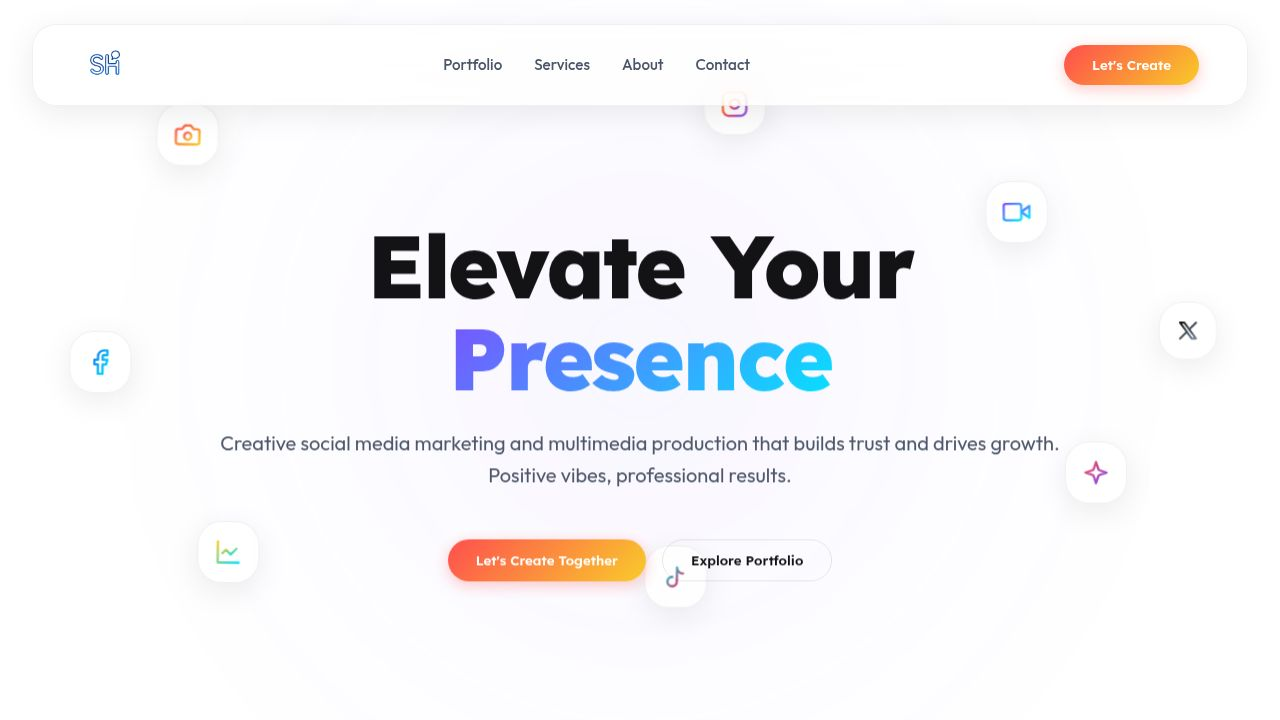
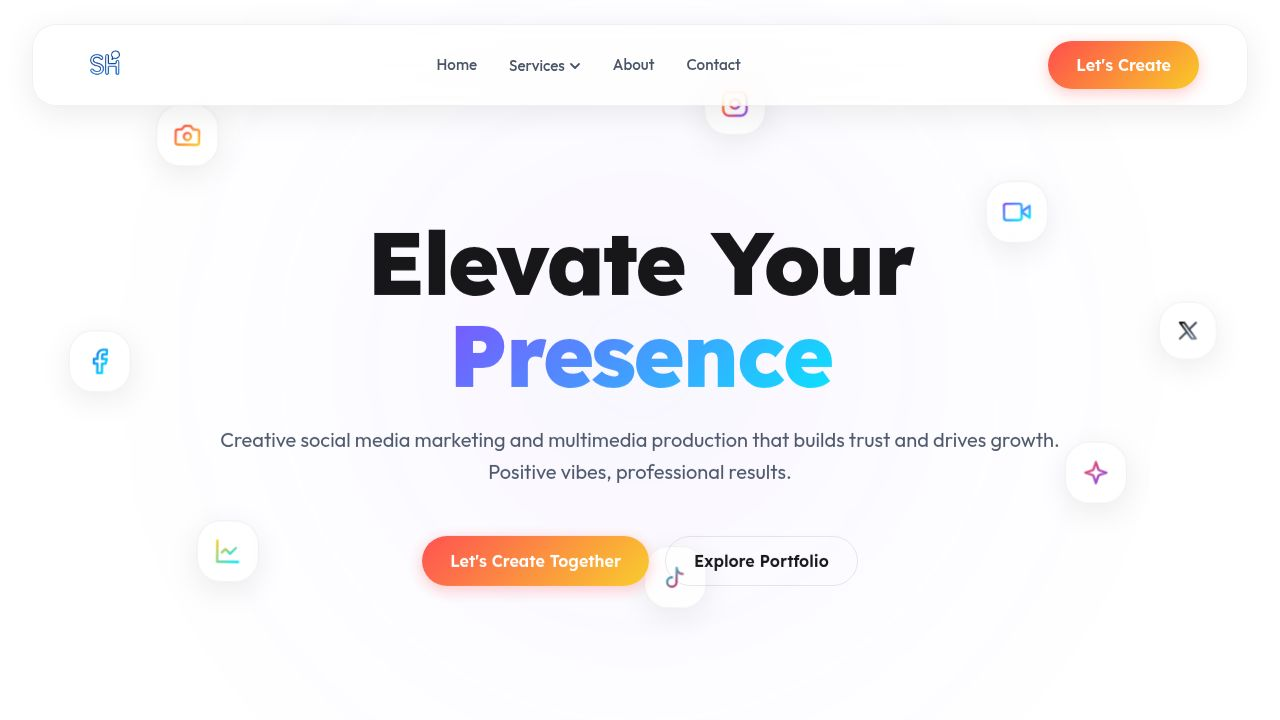
Update website imagery and restore functionality
Replaced the lifestyle branding image in the PortfolioGrid and SupportPage components with a new URL. Also refactored the PortfolioCardImage component to improve image handling and removed unused code from SupportPage.

Replit-Commit-Author: Agent
Replit-Commit-Session-Id: 4968806e-82f0-444c-84f2-3f7bd550a6ff
Replit-Commit-Checkpoint-Type: full_checkpoint
Replit-Commit-Event-Id: 494c8867-29f4-4ea4-adb8-62b390f4c8a4
Replit-Commit-Screenshot-Url: https://storage.googleapis.com/screenshot-production-us-central1/9d191c38-f26d-4065-80ef-b8d15d70e9f7/4968806e-82f0-444c-84f2-3f7bd550a6ff/XyOfk9o
Replit-Helium-Checkpoint-Created: true

diff --git a/artifacts/smedia-hub/src/components/Landing/PortfolioGrid.tsx b/artifacts/smedia-hub/src/components/Landing/PortfolioGrid.tsx
@@ -1,49 +1,6 @@
 import { useContent } from '@/lib/hooks/useContent';
 import styles from './PortfolioGrid.module.css';
 
-const FALLBACK_IMAGES: Record<string, string> = {
-  default: 'https://images.unsplash.com/photo-1460925895917-afdab827c52f?auto=format&fit=crop&q=80&w=800',
-};
-
-function PortfolioImage({ src, alt, index }: { src: string; alt: string; index: number }) {
-  const gradients = [
-    'linear-gradient(135deg, #ff4d4d 0%, #f9cb28 100%)',
-    'linear-gradient(135deg, #7c4dff 0%, #00e5ff 100%)',
-    'linear-gradient(135deg, #f9cb28 0%, #ff4d4d 100%)',
-    'linear-gradient(135deg, #00e5ff 0%, #7c4dff 100%)',
-  ];
-
-  if (!src) {
-    return (
-      <div
-        className={styles.imagePlaceholder}
-        style={{ background: gradients[index % gradients.length] }}
-        aria-label={alt}
-      >
-        <svg width="48" height="48" viewBox="0 0 24 24" fill="none" stroke="rgba(255,255,255,0.7)" strokeWidth="1.5">
-          <rect x="3" y="3" width="18" height="18" rx="2"/>
-          <circle cx="8.5" cy="8.5" r="1.5"/>
-          <path d="M21 15l-5-5L5 21"/>
-        </svg>
-      </div>
-    );
-  }
-
-  return (
-    <img
-      src={src}
-      alt={alt}
-      className={styles.image}
-      onError={e => {
-        const img = e.currentTarget;
-        img.style.display = 'none';
-        const placeholder = img.nextElementSibling as HTMLElement;
-        if (placeholder) placeholder.style.display = 'flex';
-      }}
-    />
-  );
-}
-
 const DEFAULT_PORTFOLIO = [
   {
     title: "Social Growth Strategy",
@@ -55,12 +12,49 @@ const DEFAULT_PORTFOLIO = [
     title: "Lifestyle Branding",
     category: "Photography",
     metric: "Premium Visuals",
-    image: "https://images.unsplash.com/photo-1515886657613-9f3515b0c78f?auto=format&fit=crop&q=80&w=800"
+    image: "https://images.unsplash.com/photo-1529139574466-a303027c1d8b?auto=format&fit=crop&q=80&w=1200"
   }
 ];
 
+const GRADIENTS = [
+  'linear-gradient(135deg, #ff4d4d 0%, #f9cb28 100%)',
+  'linear-gradient(135deg, #7c4dff 0%, #00e5ff 100%)',
+  'linear-gradient(135deg, #f9cb28 0%, #ff4d4d 100%)',
+  'linear-gradient(135deg, #00e5ff 0%, #7c4dff 100%)',
+];
+
+function PortfolioCardImage({ src, alt, index }: { src: string; alt: string; index: number }) {
+  return (
+    <>
+      {src ? (
+        <img
+          src={src}
+          alt={alt}
+          className={styles.image}
+          onError={e => {
+            const img = e.currentTarget;
+            img.style.display = 'none';
+            const sib = img.nextElementSibling as HTMLElement;
+            if (sib) sib.style.display = 'flex';
+          }}
+        />
+      ) : null}
+      <div
+        className={styles.imagePlaceholder}
+        style={{ display: src ? 'none' : 'flex', background: GRADIENTS[index % GRADIENTS.length] }}
+      >
+        <svg width="48" height="48" viewBox="0 0 24 24" fill="none" stroke="rgba(255,255,255,0.7)" strokeWidth="1.5">
+          <rect x="3" y="3" width="18" height="18" rx="2"/>
+          <circle cx="8.5" cy="8.5" r="1.5"/>
+          <path d="M21 15l-5-5L5 21"/>
+        </svg>
+      </div>
+    </>
+  );
+}
+
 export default function PortfolioGrid() {
-  const { content, loading } = useContent();
+  const { content } = useContent();
 
   const rawProjects = content?.portfolio;
   const projects = Array.isArray(rawProjects) && rawProjects.length > 0
@@ -70,13 +64,6 @@ export default function PortfolioGrid() {
         image: p.image || DEFAULT_PORTFOLIO[i]?.image || '',
       }))
     : DEFAULT_PORTFOLIO;
-
-  const gradients = [
-    'linear-gradient(135deg, #ff4d4d 0%, #f9cb28 100%)',
-    'linear-gradient(135deg, #7c4dff 0%, #00e5ff 100%)',
-    'linear-gradient(135deg, #f9cb28 0%, #ff4d4d 100%)',
-    'linear-gradient(135deg, #00e5ff 0%, #7c4dff 100%)',
-  ];
 
   return (
     <section id="portfolio" className="section">
@@ -90,42 +77,7 @@ export default function PortfolioGrid() {
           {projects.map((project: any, i: number) => (
             <div key={i} className={`glass-hover ${styles.card}`}>
               <div className={styles.imageWrapper}>
-                {project.image ? (
-                  <>
-                    <img
-                      src={project.image}
-                      alt={project.title}
-                      className={styles.image}
-                      onError={e => {
-                        const img = e.currentTarget;
-                        img.style.display = 'none';
-                        const sib = img.nextElementSibling as HTMLElement;
-                        if (sib) sib.style.display = 'flex';
-                      }}
-                    />
-                    <div
-                      className={styles.imagePlaceholder}
-                      style={{ display: 'none', background: gradients[i % gradients.length] }}
-                    >
-                      <svg width="48" height="48" viewBox="0 0 24 24" fill="none" stroke="rgba(255,255,255,0.7)" strokeWidth="1.5">
-                        <rect x="3" y="3" width="18" height="18" rx="2"/>
-                        <circle cx="8.5" cy="8.5" r="1.5"/>
-                        <path d="M21 15l-5-5L5 21"/>
-                      </svg>
-                    </div>
-                  </>
-                ) : (
-                  <div
-                    className={styles.imagePlaceholder}
-                    style={{ background: gradients[i % gradients.length] }}
-                  >
-                    <svg width="48" height="48" viewBox="0 0 24 24" fill="none" stroke="rgba(255,255,255,0.7)" strokeWidth="1.5">
-                      <rect x="3" y="3" width="18" height="18" rx="2"/>
-                      <circle cx="8.5" cy="8.5" r="1.5"/>
-                      <path d="M21 15l-5-5L5 21"/>
-                    </svg>
-                  </div>
-                )}
+                <PortfolioCardImage src={project.image} alt={project.title} index={i} />
                 <div className={styles.overlay}>
                   <span className={styles.metric}>{project.metric}</span>
                 </div>

diff --git a/artifacts/smedia-hub/src/pages/SupportPage.tsx b/artifacts/smedia-hub/src/pages/SupportPage.tsx
@@ -32,7 +32,7 @@ const DEFAULT_CONTENT = {
   ],
   portfolio: [
     { title: 'Social Growth Strategy', category: 'Marketing', metric: '+240% Engagement', image: 'https://images.unsplash.com/photo-1460925895917-afdab827c52f?auto=format&fit=crop&q=80&w=800' },
-    { title: 'Lifestyle Branding', category: 'Photography', metric: 'Premium Visuals', image: 'https://images.unsplash.com/photo-1515886657613-9f3515b0c78f?auto=format&fit=crop&q=80&w=800' },
+    { title: 'Lifestyle Branding', category: 'Photography', metric: 'Premium Visuals', image: 'https://images.unsplash.com/photo-1529139574466-a303027c1d8b?auto=format&fit=crop&q=80&w=1200' },
   ],
   contact: {
     email: '[email redacted]',
@@ -210,8 +210,6 @@ export default function SupportPage() {
         </header>
 
         <div className={styles.formContainer}>
-
-          {/* ─── HERO ─── */}
           {activeTab === 'hero' && (
             <div className={styles.tabContent}>
               <section className={`glass ${styles.section}`}>
@@ -241,7 +239,6 @@ export default function SupportPage() {
             </div>
           )}
 
-          {/* ─── STATS ─── */}
           {activeTab === 'stats' && (
             <div className={styles.tabContent}>
               <section className={`glass ${styles.section}`}>
@@ -263,7 +260,6 @@ export default function SupportPage() {
             </div>
           )}
 
-          {/* ─── SERVICES ─── */}
           {activeTab === 'services' && (
             <div className={styles.tabContent}>
               <section className={`glass ${styles.section}`}>
@@ -295,7 +291,6 @@ export default function SupportPage() {
             </div>
           )}
 
-          {/* ─── PORTFOLIO ─── */}
           {activeTab === 'portfolio' && (
             <div className={styles.tabContent}>
               <section className={`glass ${styles.section}`}>
@@ -333,7 +328,6 @@ export default function SupportPage() {
             </div>
           )}
 
-          {/* ─── CONTACT ─── */}
           {activeTab === 'contact' && (
             <div className={styles.tabContent}>
               <section className={`glass ${styles.section}`}>
@@ -382,7 +376,6 @@ export default function SupportPage() {
             </div>
           )}
 
-          {/* ─── THEME ─── */}
           {activeTab === 'theme' && (
             <div className={styles.tabContent}>
               <section className={`glass ${styles.section}`}>
@@ -438,7 +431,6 @@ export default function SupportPage() {
               </section>
             </div>
           )}
-
         </div>
       </main>
     </div>